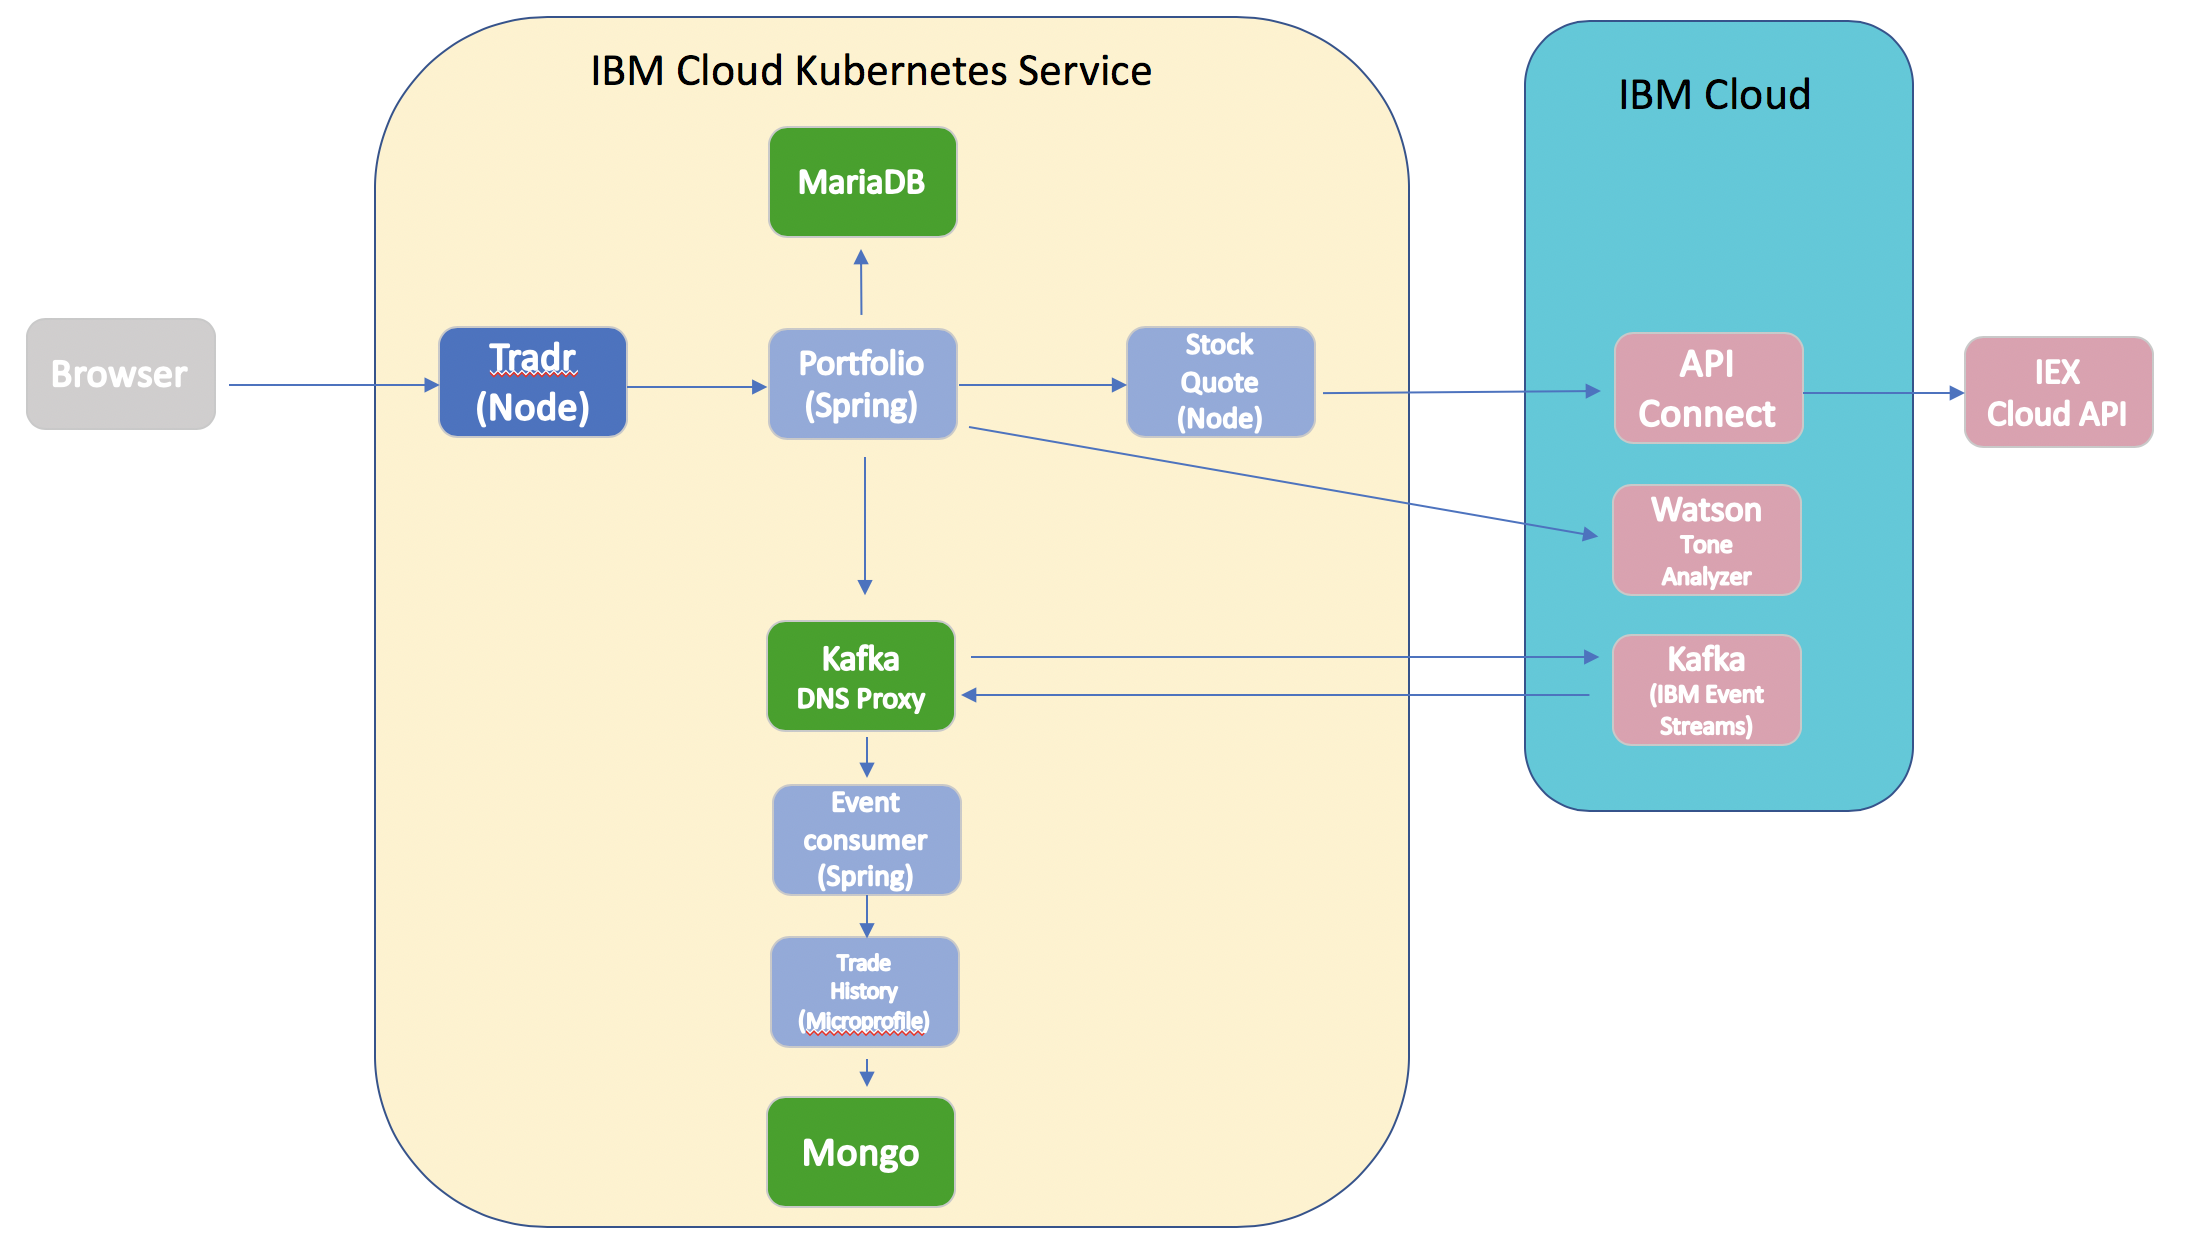
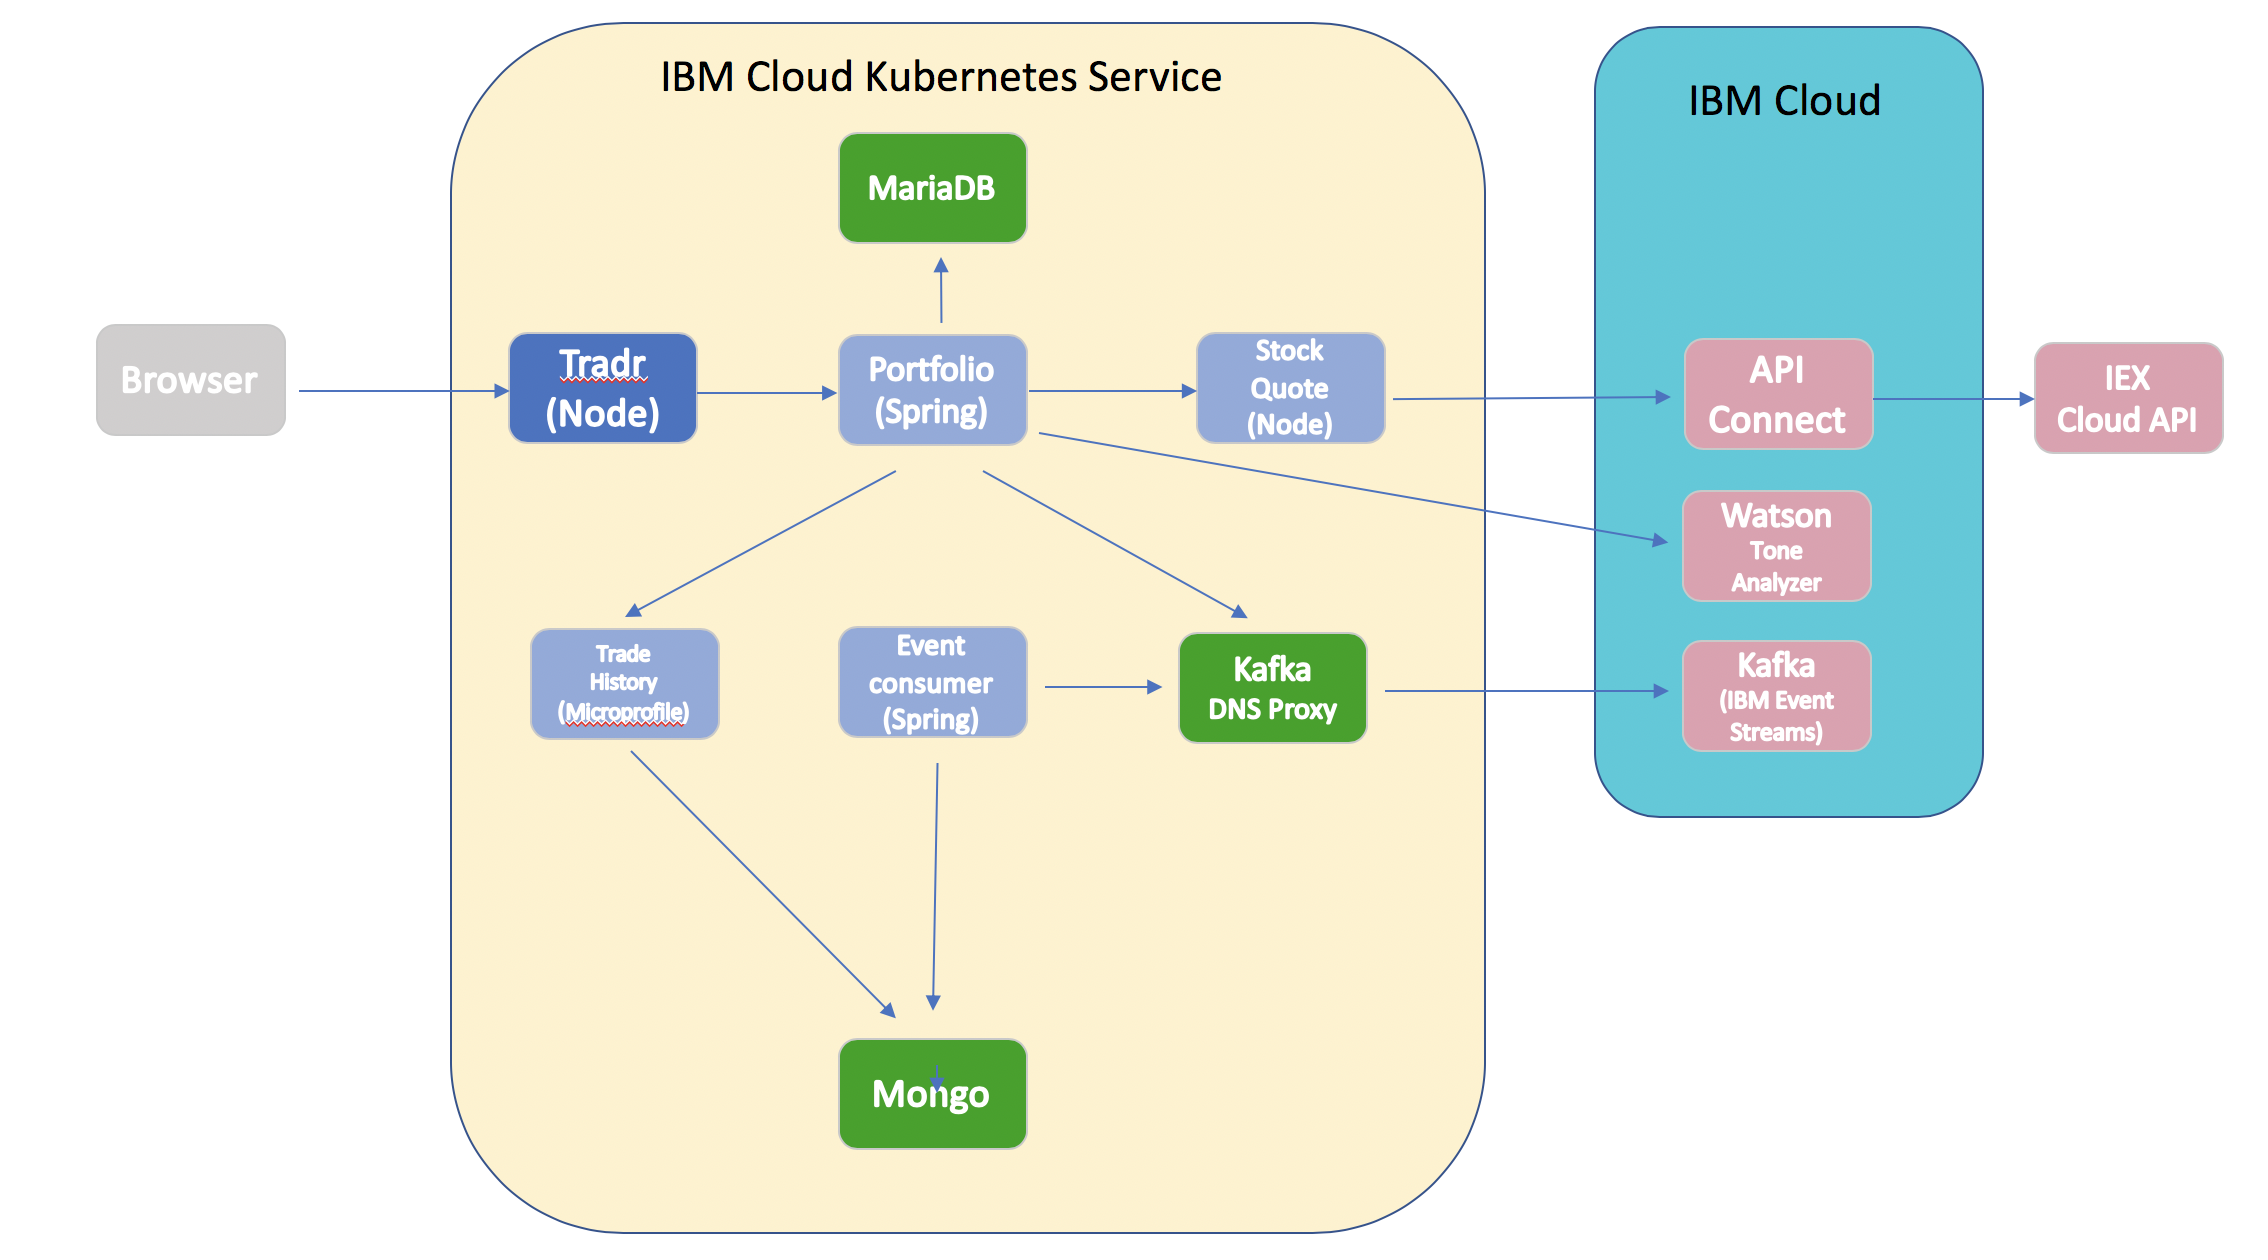
Update architecture diagram  and description

diff --git a/README.md b/README.md
@@ -17,16 +17,17 @@ The architecture of the  app is shown below:
 ![Architecture diagram](images/microservices-architecture.png)
 
 The **portfolio** microservice sits at the center of the application. This microservice;
-* persists portfolios using JDBC to a MariaDB database
+* persists trade data  using JDBC to a MariaDB database
 * invokes the **stock-quote** service that invokes an API defined in API Connect in the public IBM Cloud to get stock quotes
 * invokes the Tone Analyzer service in the public IBM Cloud to analyze the tone of submitted feedback
-* sends trades to Kafka so that they can be recorded in Mongo by the **trade-history** microservice
+* sends trades to Kafka so that they can be recorded in Mongo by the **event-consumer** microservice
+* calls the **trade-history** service to get aggregated historical trade  data.
 
 **Tradr** is a Node.js UI for the porfolio service
 
-The **event-consumer** service serves as a Kafka consumer and uses APIs exposed by the **trade-history** service to send received  data to that service.
+The **event-consumer** service serves as a Kafka consumer and stores trade data published by the **portfolio** service in the Mongo database.
 
-The **trade-history** service is called by the **event-consumer** and records trade records sent to Kafka by the **portfolio** service in a Mongo database. This service also exposes an API - [ ] o query the historical data.
+The **trade-history** service exposes an API to query the historical data in Mongo and is  called by the **portfolio** to get aggregated historical data.
 
 The **stock-quote** service queries an external service to get real time stock quotes via an API Connect proxy.
 
@@ -108,7 +109,7 @@ In this part  you'll install the prereqs step by step before installing the Stoc
 ```
    kubectl get pods
 ```
-...The output should show pods for MariaDB and Mongo and they both should be running and in the READT state
+...The output should show pods for MariaDB and Mongo and they both should be running and in the READY state
 
 ```
    NAME                                        READY     STATUS    RESTARTS   AGE
